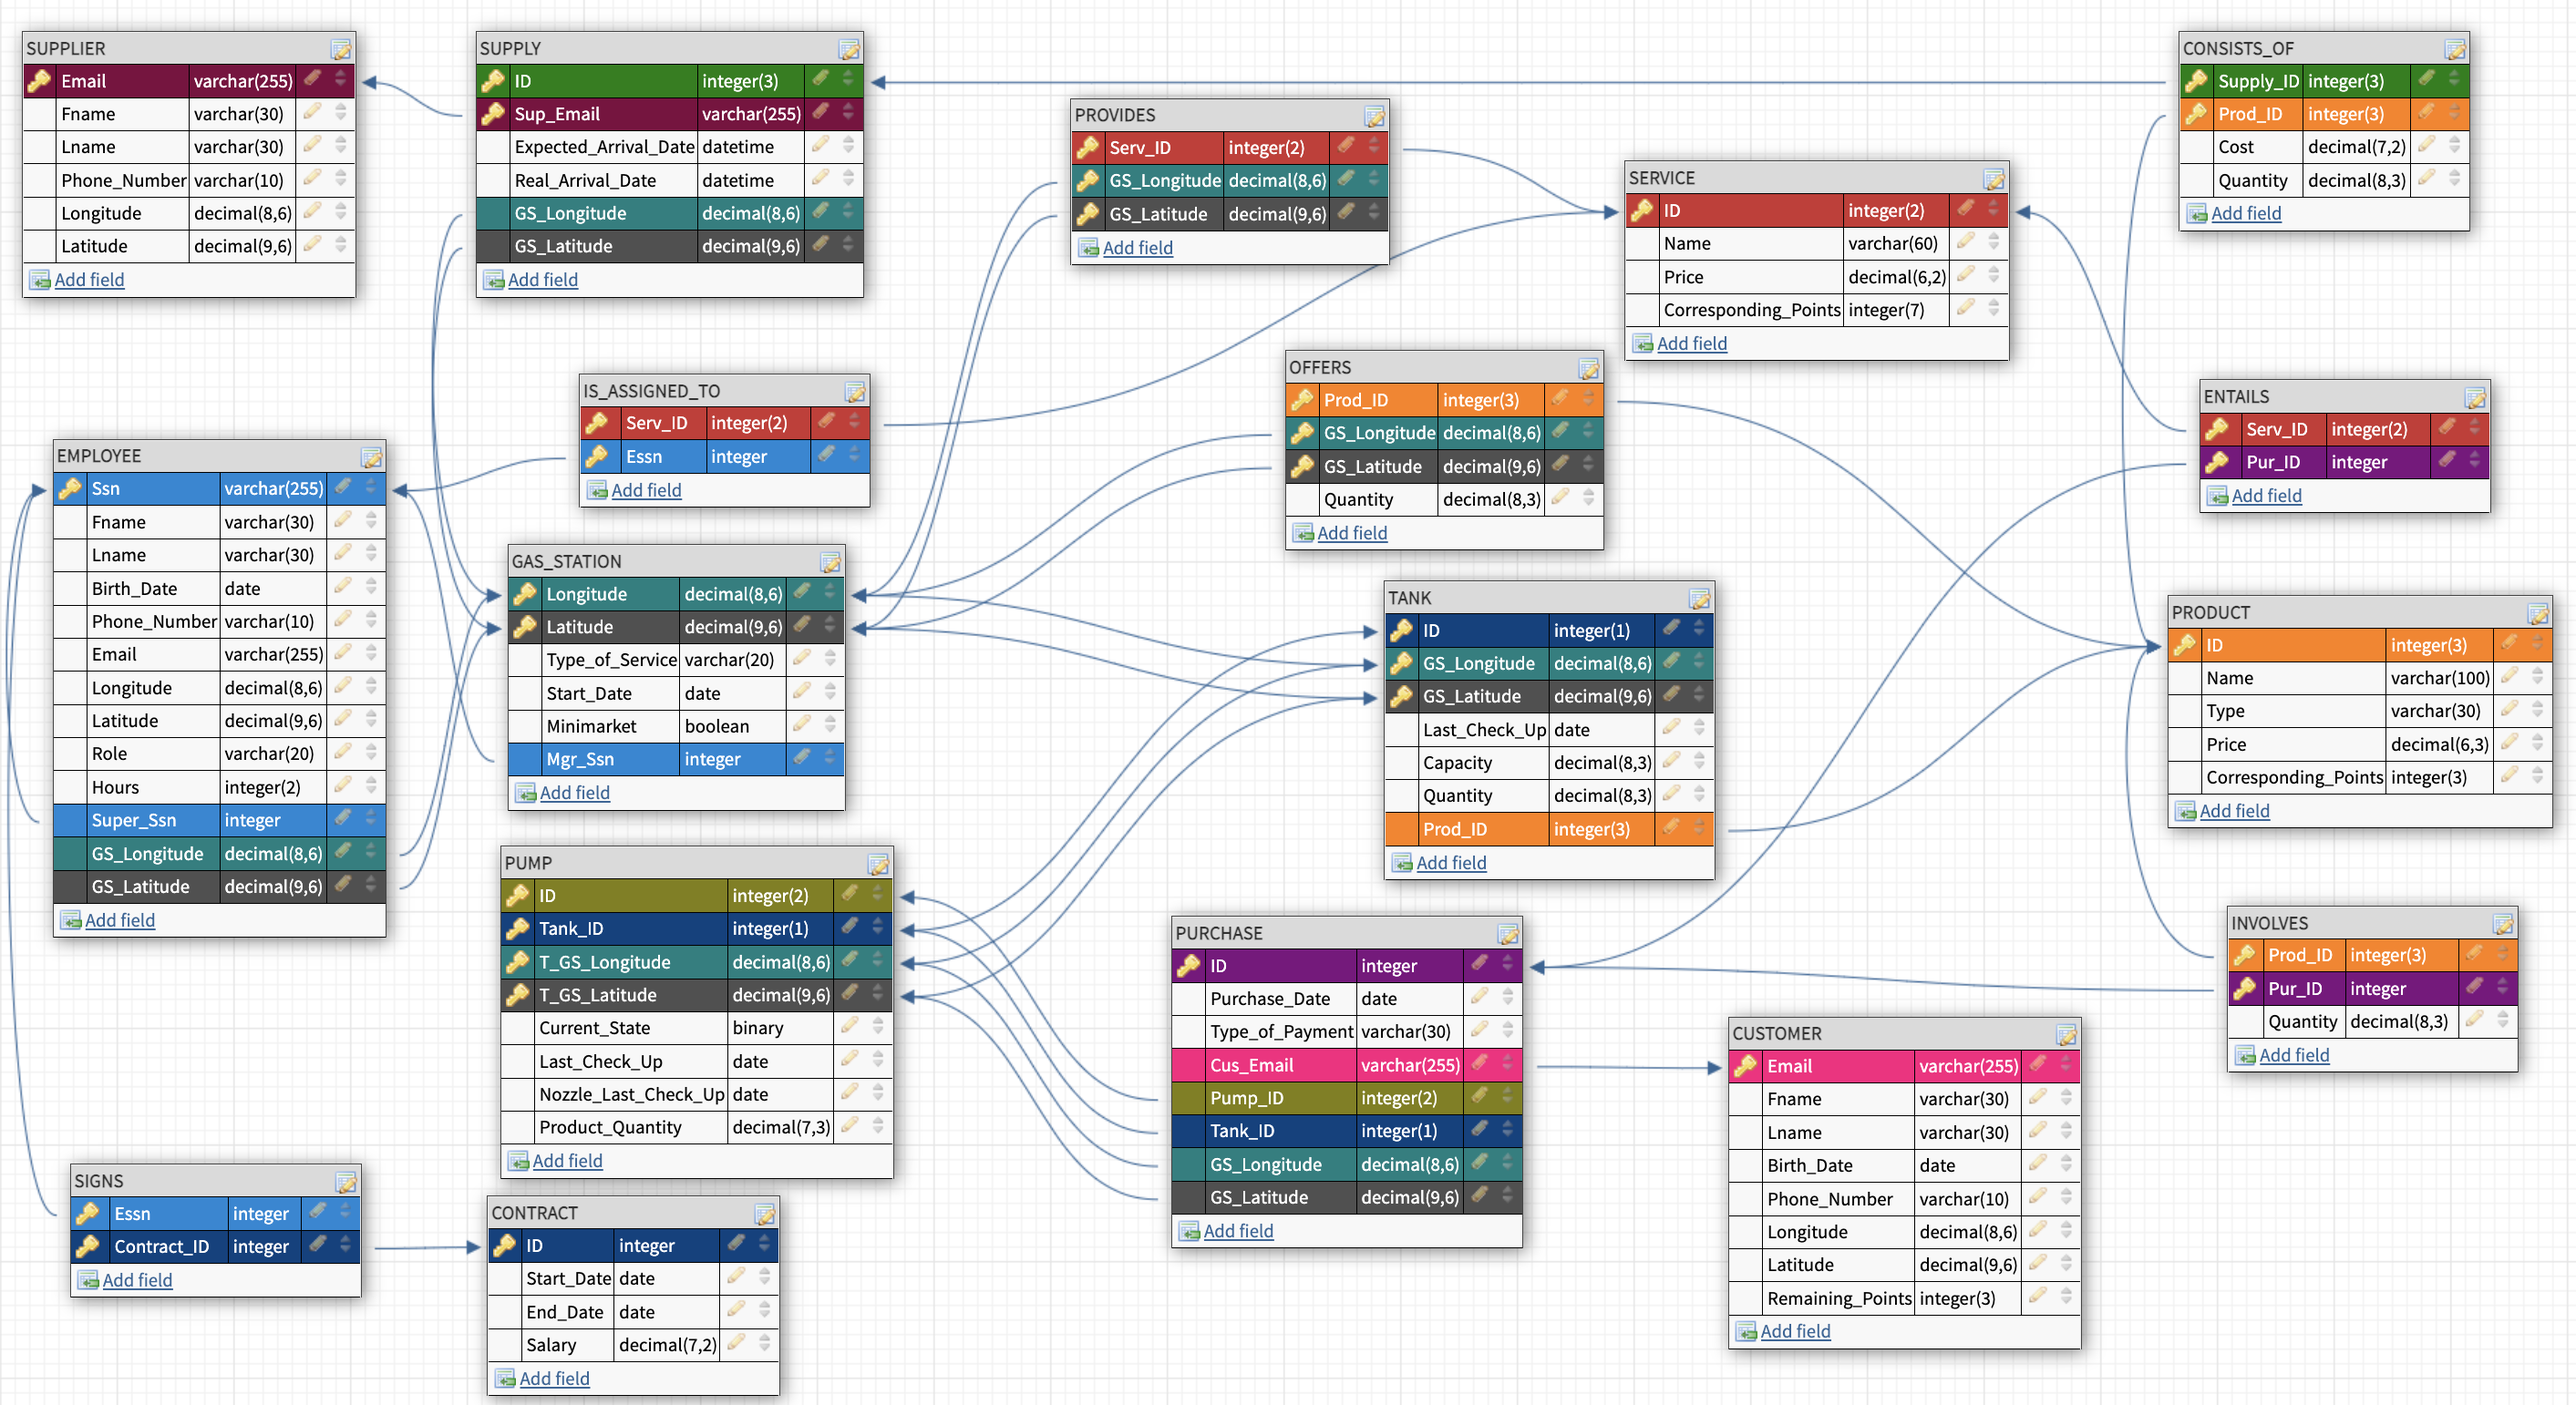
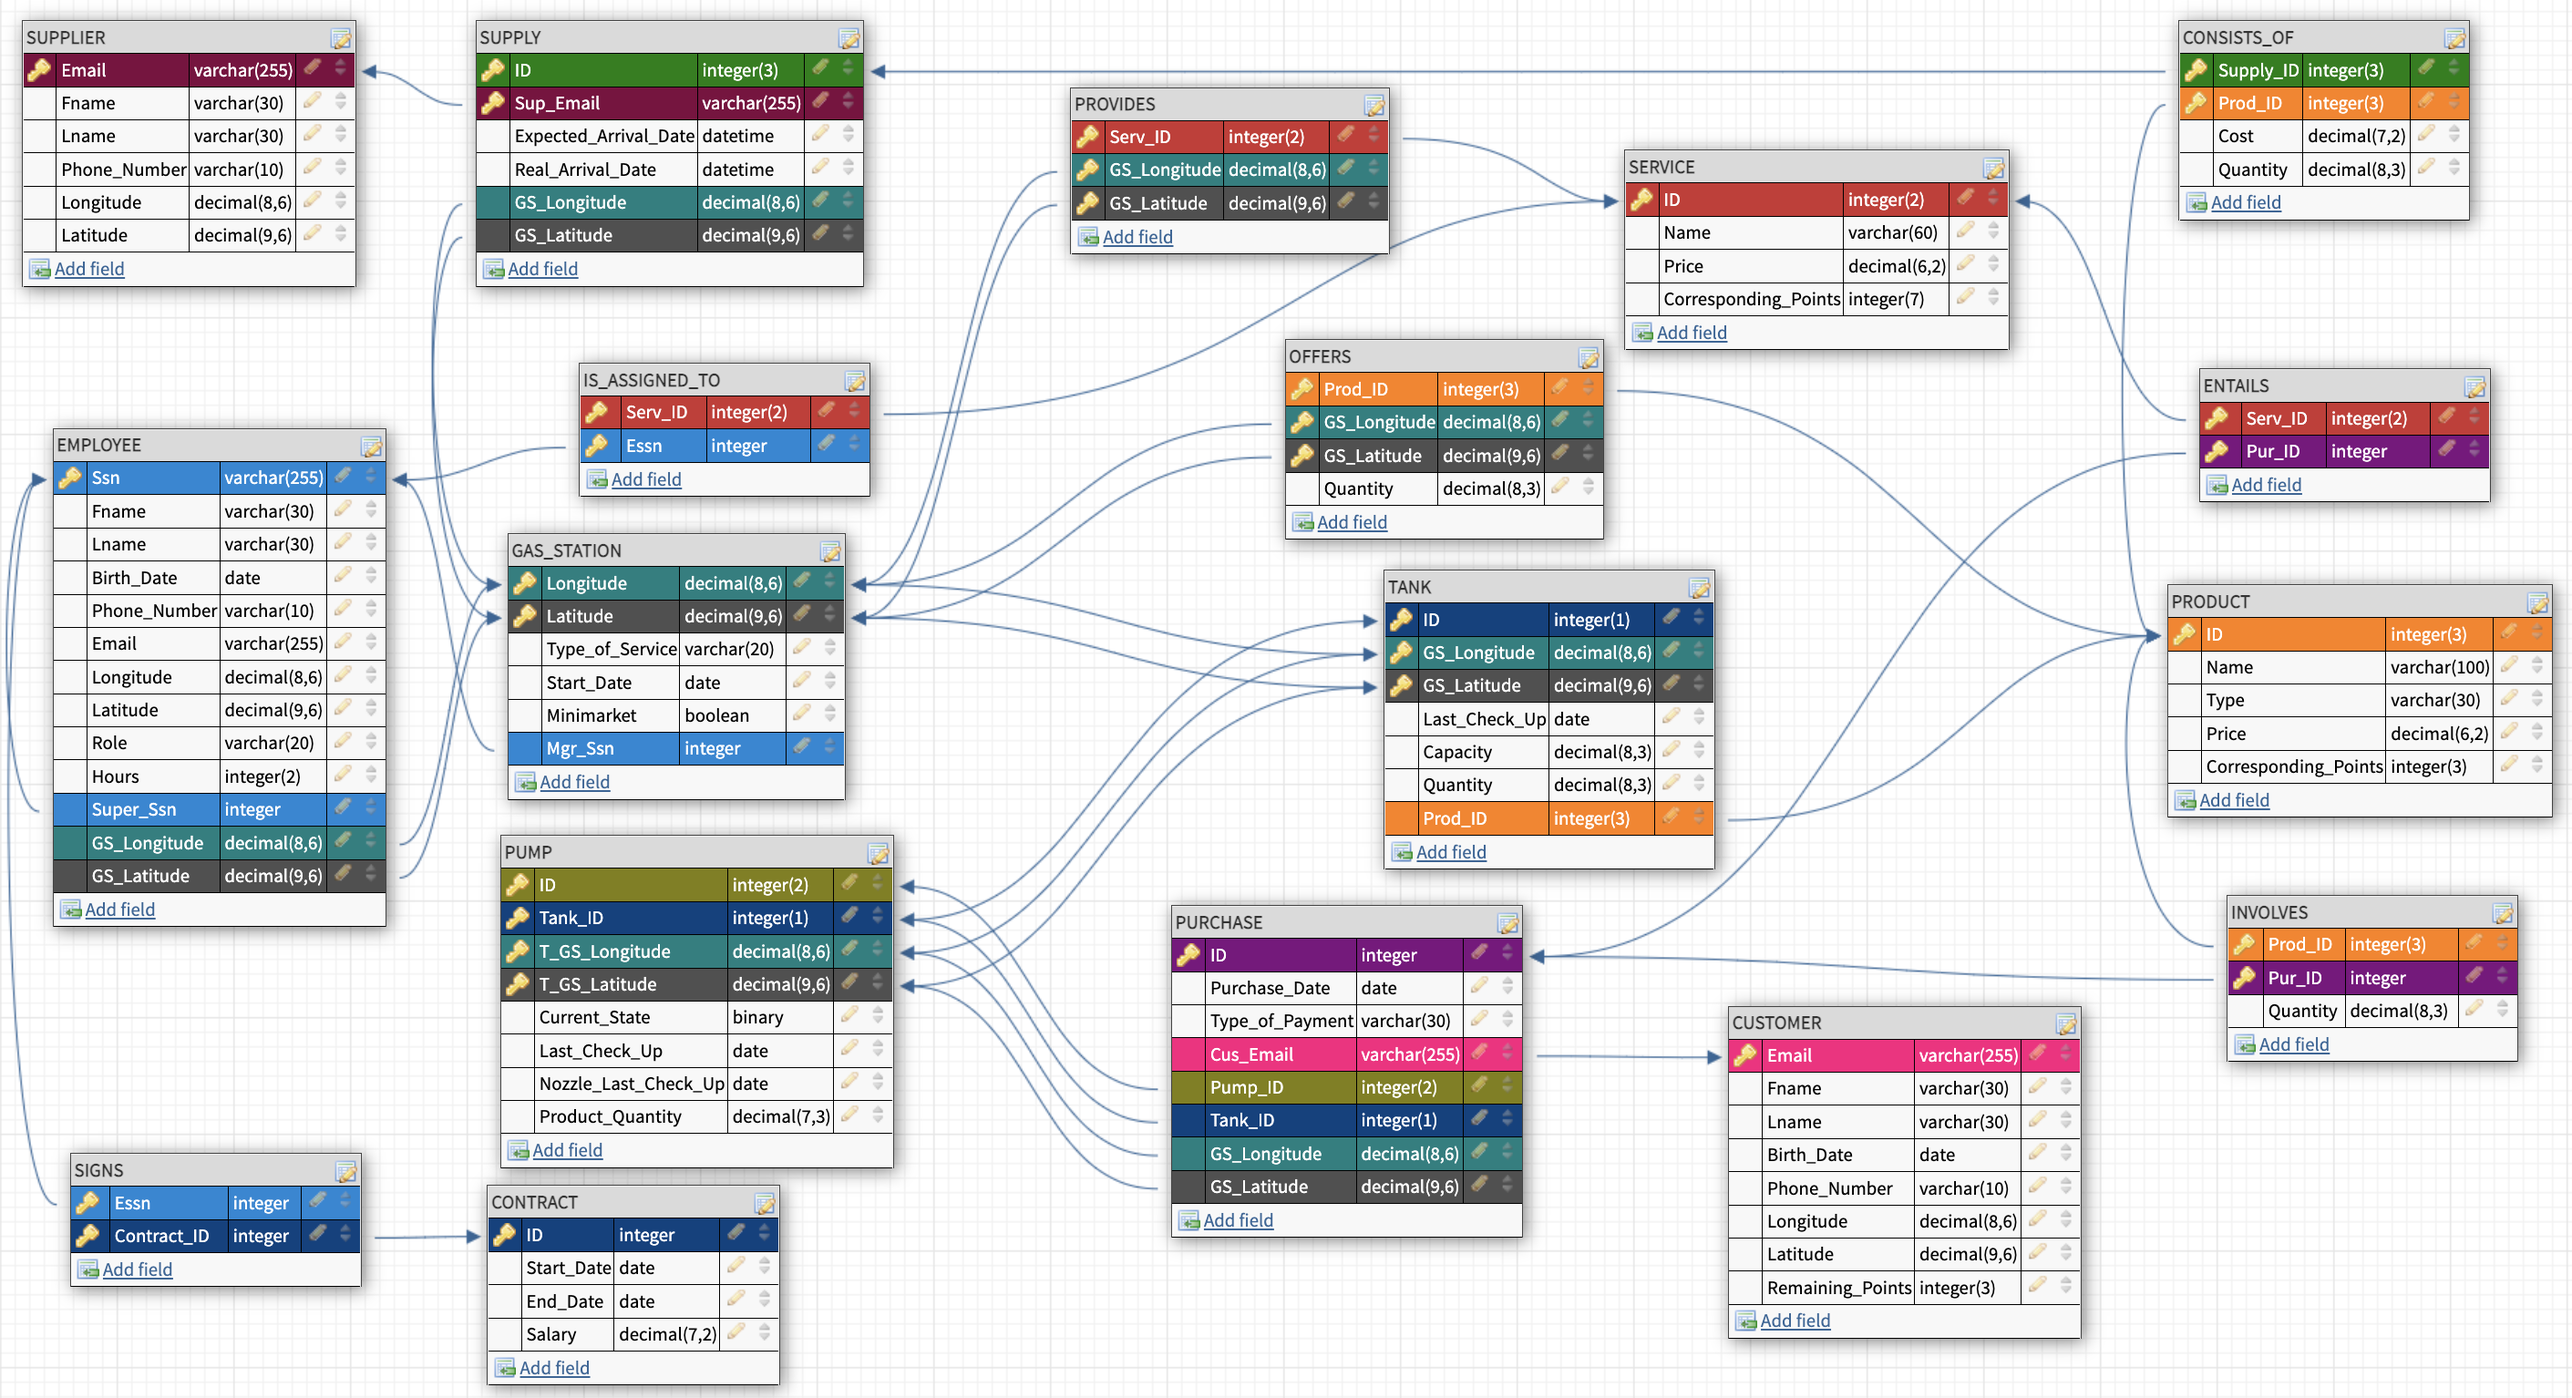
Implement Offers, Product and Changed RS

diff --git a/Database_Management/views.py b/Database_Management/views.py
@@ -835,39 +835,108 @@ def isAssignedTo_delete(request, essn_servid):
 
 
 def offer(request):
+    prod_id_fault = False
+    gs_longitude_fault = False
+    gs_latitude_fault = False
+    quantity_fault = False
+    
     if request.method == "POST":
         prod_id = request.POST.get('prod-id', False)
         previous_prod_id = request.POST.get('previous-prod-id', False)
         gs_longitude = request.POST.get('gs-longitude', False)
         gs_latitude = request.POST.get('gs-latitude', False)
         quantity = request.POST.get('quantity', False)
+        
+        error_occured = False
+        
+        if (prod_id != False):
+            prod_id = prod_id.strip()
+            if (not prod_id.isdigit()):
+                prod_id_fault = "Please write a positive integer for Product ID"
+                error_occured = True
+            else:
+                prod_id = int(prod_id)
+                
+        if (gs_longitude != False):
+            gs_longitude = gs_longitude.strip()
+            if (not gs_longitude.replace('.', '', 1).isdigit()):
+                gs_longitude_fault = "Please write a float number between 00.000000 and 99.999999 with 6 decimal places for GS Longitude"
+                error_occured = True
+            else:
+                gs_longitude = float(gs_longitude)
+                if (gs_longitude > 99.999999 or gs_longitude < 0):
+                    gs_longitude_fault = "Please write a float number between 00.000000 and 99.999999 with 6 decimal places for GS Longitude"
+                    error_occured = True
+                else:
+                    numbers = str(gs_longitude).split('.')
+                    decimal_part = numbers[1]
+                    if (len(decimal_part) > 6):
+                        gs_longitude_fault = "Please write a float number between 00.000000 and 99.999999 with 6 decimal places for GS Longitude"
+                        error_occured = True
 
-        if "add_offers" in request.POST:
-            try:
-                Offers.insertInto(int(prod_id), float(
-                    gs_longitude), float(gs_latitude), float(quantity))
-                return redirect(offer)
-            except Exception as e:
-                print("View exception")
-                print(e)
-        elif "search_offers" in request.POST:
-            try:
-                offers = Offers.searchBy(int(prod_id), float(
-                    gs_longitude), float(gs_latitude), float(quantity))
-            except Exception as e:
-                print("View exception")
-                print(e)
+        if (gs_latitude != False):
+            gs_latitude = gs_latitude.strip()
+            if (not gs_latitude.replace('.', '', 1).isdigit()):
+                gs_latitude_fault = "Please write a float number between 000.000000 and 999.999999 with 6 decimal places for GS Latitude"
+                error_occured = True
+            else:
+                gs_latitude = float(gs_latitude)
+                if (gs_latitude > 999.999999 or gs_latitude < 0):
+                    gs_latitude_fault = "Please write a float number between 000.000000 and 999.999999 with 6 decimal places for GS Latitude"
+                    error_occured = True
+                else:
+                    numbers = str(gs_latitude).split('.')
+                    decimal_part = numbers[1]
+                    if (len(decimal_part) > 6):
+                        gs_latitude_fault = "Please write a float number between 000.000000 and 999.999999 with 6 decimal places for GS Latitude"
+                        error_occured = True
+                        
+        if (quantity != False):
+            quantity = quantity.strip()
+            if (not quantity.replace('.', '', 1).isdigit()):
+                quantity_fault = "Please write a float number between 0 and 100000 with 3 decimal places for quantity"
+                error_occured = True
+            else:
+                quantity = float(quantity)
+                if (quantity > 99999.999 or quantity < 0):
+                    quantity_fault = "Please write a float number between 0 and 100000 with 3 decimal places for quantity"
+                    error_occured = True
+                else:
+                    numbers = str(quantity).split('.')
+                    decimal_part = numbers[1]
+                    if (len(decimal_part) > 3):
+                        quantity_fault = "Please write a float number between 0 and 100000 with 3 decimal places for quantity"
+                        error_occured = True
+                        
+        if (not error_occured):
+            if "add_offers" in request.POST:
+                try:
+                    Offers.insertInto(int(prod_id), float(
+                        gs_longitude), float(gs_latitude), float(quantity))
+                    return redirect(offer)
+                except Exception as e:
+                    print("View exception")
+                    print(e)
+            elif "search_offers" in request.POST:
+                try:
+                    offers = Offers.searchBy(int(prod_id), float(
+                        gs_longitude), float(gs_latitude), float(quantity))
+                except Exception as e:
+                    print("View exception")
+                    print(e)
+            else:
+                try:
+                    Offers.update(int(prod_id), int(previous_prod_id), float(gs_longitude),
+                                float(gs_latitude), float(quantity))
+                    return redirect(offer)
+                except Exception as e:
+                    print("View exception")
+                    print(e)
         else:
-            try:
-                Offers.update(int(prod_id), int(previous_prod_id), float(gs_longitude),
-                              float(gs_latitude), float(quantity))
-                return redirect(offer)
-            except Exception as e:
-                print("View exception")
-                print(e)
+            offers = Offers.retrieveAllColumns()
     else:
         offers = Offers.retrieveAllColumns()
-    return render(request, 'offers.html', {'offers': offers})
+    return render(request, 'offers.html', {'offers': offers, 'prod_id_fault': prod_id_fault, 'gs_longitude_fault': gs_longitude_fault, 'gs_latitude_fault': gs_latitude_fault, 'quantity_fault': quantity_fault})
 
 
 def offer_delete(request, prodid_longitude_latitude):
@@ -876,6 +945,12 @@ def offer_delete(request, prodid_longitude_latitude):
 
 
 def product(request):
+    id_fault = False
+    name_fault = False
+    type_fault = False
+    price_fault = False
+    corresponding_points_fault = False
+    
     if request.method == "POST":
         id = request.POST.get('id', False)
         name = request.POST.get('name', False)
@@ -883,32 +958,73 @@ def product(request):
         price = request.POST.get('price', False)
         corresponding_points = request.POST.get('corresponding-points', False)
 
-        if "add_product" in request.POST:
-            try:
-                Product.insertInto(id, name, type, price,
-                                   int(corresponding_points))
-                return redirect(product)
-            except Exception as e:
-                print("View exception")
-                print(e)
-        elif "search_product" in request.POST:
-            try:
-                products = Product.searchBy(
-                    int(id), type, float(price), int(corresponding_points))
-            except Exception as e:
-                print("View exception")
-                print(e)
+        error_occured = False
+        
+        if (id != False):
+            id = id.strip()
+            if (not id.isdigit()):
+                id_fault = "Please write a positive integer for id"
+                error_occured = True
+            else:
+                id = int(id)
+                
+        if (price != False):
+            price = price.strip()
+            if (not price.replace('.', '', 1).isdigit()):
+                price_fault = "Please write a float number between 0 and 10000 with 2 decimal places for price"
+                error_occured = True
+            else:
+                price = float(price)
+                if (price > 9999.99 or price < 0):
+                    price_fault = "Please write a float number between 0 and 10000 with 2 decimal places for price"
+                    error_occured = True
+                else:
+                    numbers = str(price).split('.')
+                    decimal_part = numbers[1]
+                    if (len(decimal_part) > 2):
+                        price_fault = "Please write a float number between 0 and 10000 with 2 decimal places for price"
+                        error_occured = True
+                        
+        if (corresponding_points != False):
+            corresponding_points = corresponding_points.strip()
+            if (not corresponding_points.replace('.', '', 1).isdigit()):
+                corresponding_points_fault = "Please write a integer between 0 and 999 for Corresponding Points"
+                error_occured = True
+            else:
+                corresponding_points = int(corresponding_points)
+                if (corresponding_points > 999 or corresponding_points < 0):
+                    corresponding_points_fault = "Please write a integer between 0 and 999 for Corresponding Points"
+                    error_occured = True
+
+        if (not error_occured):
+            if "add_product" in request.POST:
+                try:
+                    Product.insertInto(id, name, type, price,
+                                    int(corresponding_points))
+                    return redirect(product)
+                except Exception as e:
+                    print("View exception")
+                    print(e)
+            elif "search_product" in request.POST:
+                try:
+                    products = Product.searchBy(
+                        int(id), type, float(price), int(corresponding_points))
+                except Exception as e:
+                    print("View exception")
+                    print(e)
+            else:
+                try:
+                    Product.update(int(id), name, type, float(
+                        price), int(corresponding_points))
+                    return redirect(product)
+                except Exception as e:
+                    print("View exception")
+                    print(e)
         else:
-            try:
-                Product.update(int(id), name, type, float(
-                    price), int(corresponding_points))
-                return redirect(product)
-            except Exception as e:
-                print("View exception")
-                print(e)
+            products = Product.retrieveAllColumns()
     else:
         products = Product.retrieveAllColumns()
-    return render(request, 'product.html', {'products': products})
+    return render(request, 'product.html', {'products': products, 'id_fault': id_fault, 'name_fault': name_fault, 'type_fault': type_fault, 'price_fault': price_fault, 'corresponding_points_fault': corresponding_points_fault})
 
 
 def product_delete(request, id):
